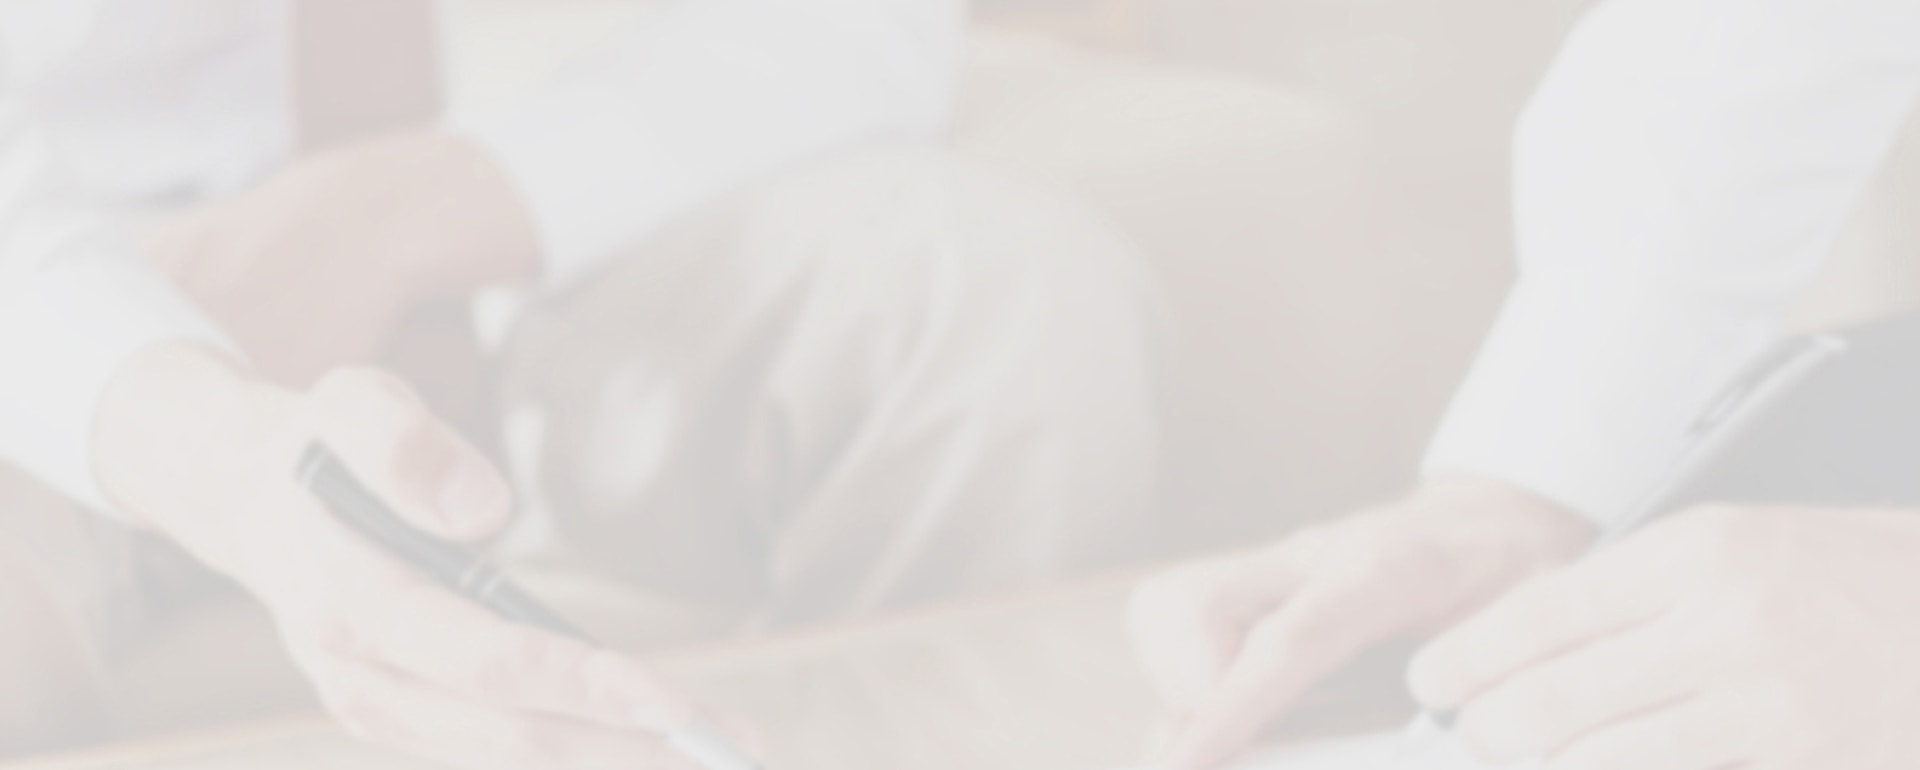
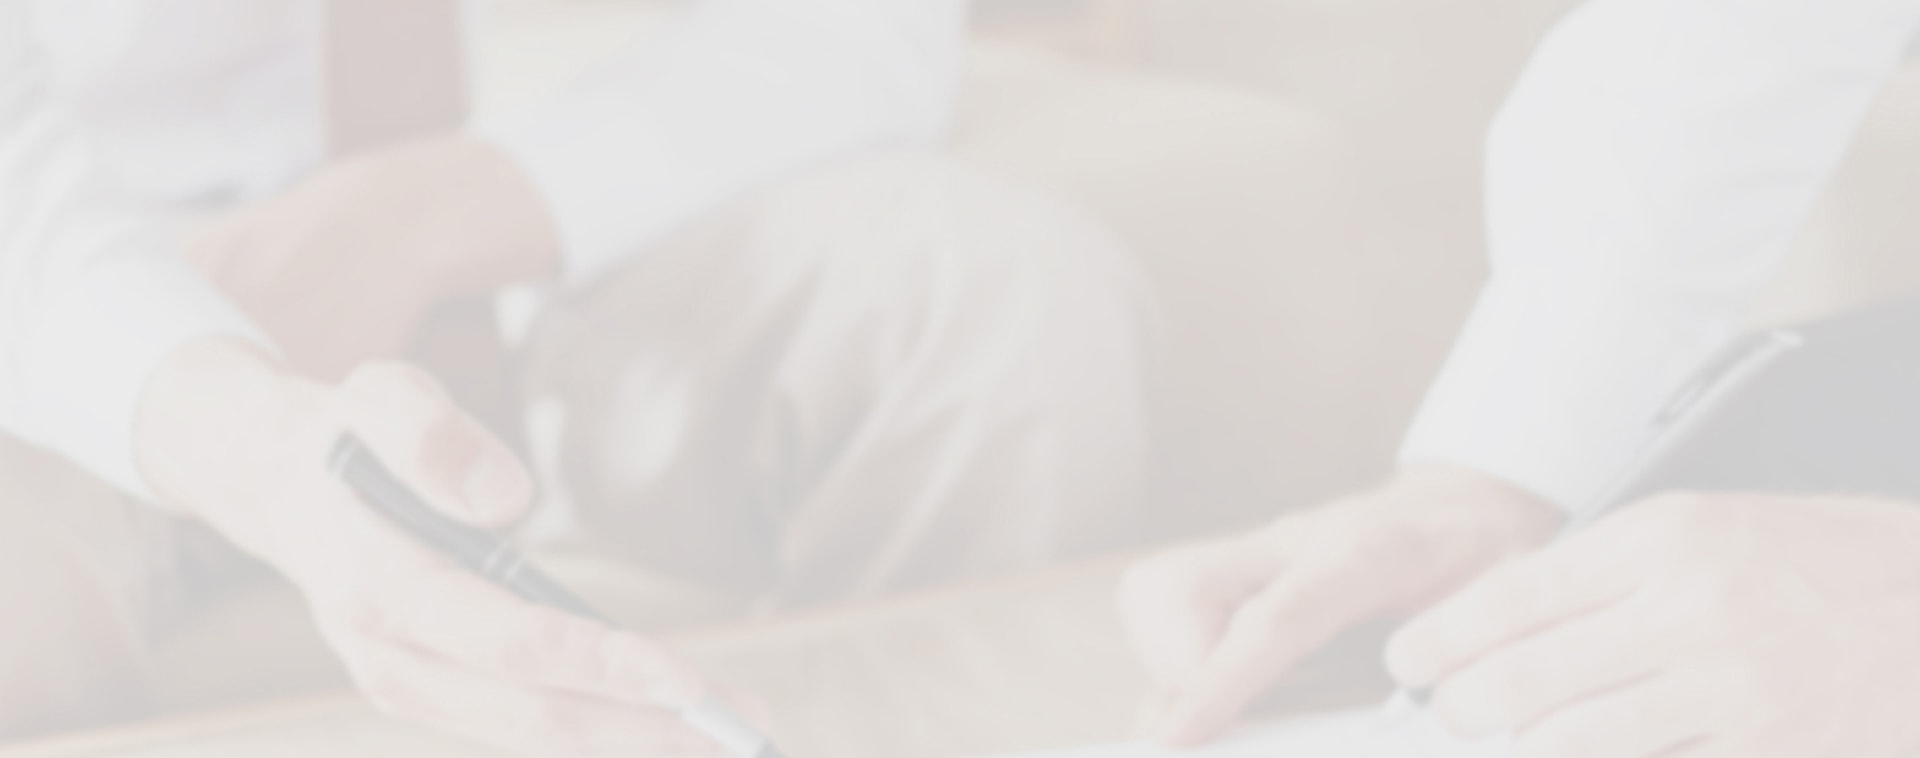
feat(safe.html) 资金安全和运营规范效果改进

diff --git a/app/views/safe.html b/app/views/safe.html
@@ -86,7 +86,7 @@
       <div id="unit1" class="info info1">
         <div class="tab pre position-ab"></div>
         <div class="tab nxt position-ab"></div>
-        <div class="display-inbl icon"><img src="/images/safe/slide-img1.png" class="display-bl" width="90%" height="90%"></div>
+        <div class="display-inbl icon"><img src="/images/safe/slide-img1.png" class="display-bl"></div>
         <div class="display-inbl ft-28 descrip"><div>宏财网率先对接北京网贷风险监控与资金存管系统。投资信息、标的信息等重要数据报送北京金融局、北京网贷协会进行信息备案;</div></div>
       </div>
       <div id="unit2" class="info info2" style="display: none;">
@@ -95,8 +95,8 @@
         <div class="display-inbl icon position-re">
           <ul class="margin-r-63 position-ab firstUl">
             <li style="transform: rotateX(0deg) translateZ(190px);"><img src="/images/safe/num1.png" class="display-bl"></li>
-            <li style="transform: rotateX(25deg) translateZ(190px);"><img src="/images/safe/num2.png" class="display-bl"></li>
-            <li style="transform: rotateX(50deg) translateZ(190px);"><img src="/images/safe/num3.png" class="display-bl"></li>
+            <li style="transform: rotateX(28deg) translateZ(190px);"><img src="/images/safe/num2.png" class="display-bl"></li>
+            <li style="transform: rotateX(53deg) translateZ(190px);"><img src="/images/safe/num3.png" class="display-bl"></li>
             <li style="transform: rotateX(75deg) translateZ(190px);"><img src="/images/safe/num4.png" class="display-bl"></li>
             <li style="transform: rotateX(100deg) translateZ(190px);"><img src="/images/safe/num0.png" class="display-bl"></li>
             <li style="transform: rotateX(125deg) translateZ(190px);"><img src="/images/safe/num1.png" class="display-bl"></li>
@@ -113,8 +113,8 @@
           </ul>
           <ul class="position-ab thirdUl">
             <li style="transform: rotateX(0deg) translateZ(190px);"><img src="/images/safe/num0.png" class="display-bl"></li>
-            <li style="transform: rotateX(25deg) translateZ(190px);"><img src="/images/safe/num4.png" class="display-bl"></li>
-            <li style="transform: rotateX(50deg) translateZ(190px);"><img src="/images/safe/num3.png" class="display-bl"></li>
+            <li style="transform: rotateX(28deg) translateZ(190px);"><img src="/images/safe/num4.png" class="display-bl"></li>
+            <li style="transform: rotateX(53deg) translateZ(190px);"><img src="/images/safe/num3.png" class="display-bl"></li>
             <li style="transform: rotateX(75deg) translateZ(190px);"><img src="/images/safe/num2.png" class="display-bl"></li>
             <li style="transform: rotateX(100deg) translateZ(190px);"><img src="/images/safe/num1.png" class="display-bl"></li>
             <li style="transform: rotateX(125deg) translateZ(190px);"><img src="/images/safe/num0.png" class="display-bl"></li>
@@ -128,7 +128,7 @@
         <div class="tab nxt position-ab"></div>
         <div class="display-inbl icon position-re"><img src="/images/safe/slide-img3.png" class="display-bl"><img src="/images/safe/highlight-line.png" class="position-ab line"></div>
         <div class="display-inbl ft-28 descrip" >
-          <div style="width: 100%;height: 100%;">投资人在充值和提现前必须进行实名认证、手机绑定等多重安全认证，任何帐户资金的提现，只能转出到本人实名绑定的银行账户，完全保障投资人的资金转出安全。</div>
+          <div>投资人在充值和提现前必须进行实名认证、手机绑定等多重安全认证，任何帐户资金的提现，只能转出到本人实名绑定的银行账户，完全保障投资人的资金转出安全。</div>
         </div>
       </div>
     </div>
@@ -265,7 +265,7 @@
           </div>
         </li>
         <li class="position-re">
-          <div class="front position-ab"><img src="/images/safe/running-icon2.png" class="display-bl"><p class="ft-white">信息披露</p></div>
+          <div class="front position-ab"><img src="/images/safe/running-icon2.png" class="display-bl"><p class="ft-white padding-t-10">信息披露</p></div>
           <div class="back">
             <p>信息披露</p>
             <hr>
@@ -281,7 +281,7 @@
           </div>
         </li>
         <li class="position-re margin-r-0">
-          <div class="front position-ab"><img src="/images/safe/running-icon3.png" class="display-bl"><p class="ft-white">专业服务</p></div>
+          <div class="front position-ab"><img src="/images/safe/running-icon3.png" class="display-bl"><p class="ft-white padding-t-15">专业服务</p></div>
           <div class="back">
             <p>专业服务</p>
             <hr>

diff --git a/app/styles/safe.less b/app/styles/safe.less
@@ -414,7 +414,7 @@
     animation-timing-function: ease;
     animation-fill-mode: backwards
   }
-  //密码锁旋转动画向下转
+  //资金安全密码锁旋转动画向下转
   @-o-keyframes num_rotate_bottom {
     from {
       transform: rotateX(313deg)
@@ -485,6 +485,54 @@
     }
     to {
       transform: rotateX(313deg)
+    }
+  }
+  //资金安全放大 缩小动画
+  @-o-keyframes toggle_scale {
+    0% {
+      transform: scale(.8)
+    }
+    50% {
+      transform: scale(1.2)
+    }
+    100%{
+      transform: scale(1)
+    }
+  }
+
+  @-moz-keyframes toggle_scale {
+    0% {
+      transform: scale(.8)
+    }
+    50% {
+      transform: scale(1.2)
+    }
+    100%{
+      transform: scale(1)
+    }
+  }
+
+  @-webkit-keyframes toggle_scale {
+    0% {
+      transform: scale(.8)
+    }
+    50% {
+      transform: scale(1.2)
+    }
+    100%{
+      transform: scale(1)
+    }
+  }
+
+  @keyframes toggle_scale {
+    0% {
+      transform: scale(.8)
+    }
+    50% {
+      transform: scale(1.2)
+    }
+    100%{
+      transform: scale(1)
     }
   }
   .banner>ul {
@@ -684,14 +732,20 @@
         background: url("/images/safe/fund-slide-nxt.png") no-repeat;
         right: 0;
       }
-      #unit2 .icon ul {
+      #unit1 .icon img {
+        transform: scale(.8);
+      }
+      #unit2 .icon ul {transform: translateZ(-190px) rotateX(246deg);transform-style: preserve-3d;
         transform: translateZ(-190px) rotateX(313deg);transform-style: preserve-3d;
       }
+      #unit2 .icon .secondUl {
+        transform: translateZ(-190px) rotateX(246deg);
+      }
       #unit2 .icon .ratateNum1 {
-        -o-animation: num_rotate_bottom 1s ease 1s 1 normal;
-        -moz-animation: num_rotate_bottom 1s ease 1s 1 normal;
-        -webkit-animation: num_rotate_bottom 1s ease 1s 1 normal;
-        animation: num_rotate_bottom 1s ease 1s 1 normal;
+        -o-animation: num_rotate_bottom 1s ease .8s 1 normal;
+        -moz-animation: num_rotate_bottom 1s ease .8s 1 normal;
+        -webkit-animation: num_rotate_bottom 1s ease .8s 1 normal;
+        animation: num_rotate_bottom 1s ease .8s 1 normal;
         animation-fill-mode: forwards;
         -webkit-animation-fill-mode: forwards;
       }
@@ -704,10 +758,18 @@
         -webkit-animation-fill-mode: forwards;
       }
       #unit2 .icon .ratateNum3 {
-        -o-animation: num_rotate_bottom .8s ease-in-out 1s 1 normal;
-        -moz-animation: num_rotate_bottom .8s ease-in-out 1s 1 normal;
-        -webkit-animation: num_rotate_bottom .8s ease-in-out 1s 1 normal;
-        animation: num_rotate_bottom .8s ease-in-out 1s 1 normal;
+        -o-animation: num_rotate_bottom .8s ease-in-out .8s 1 normal;
+        -moz-animation: num_rotate_bottom .8s ease-in-out .8s 1 normal;
+        -webkit-animation: num_rotate_bottom .8s ease-in-out .8s 1 normal;
+        animation: num_rotate_bottom .8s ease-in-out .8s 1 normal;
+        animation-fill-mode: forwards;
+        -webkit-animation-fill-mode: forwards;
+      }
+      #unit1 .icon .toggle-scale {
+        -o-animation: toggle_scale 2s linear .8s 1 normal;
+        -moz-animation: toggle_scale 2s linear .8s 1 normal;
+        -webkit-animation: toggle_scale 2s linear .8s 1 normal;
+        animation: toggle_scale 2s linear .8s 1 normal;
         animation-fill-mode: forwards;
         -webkit-animation-fill-mode: forwards;
       }

diff --git a/app/scripts/controller/project/safe-ctrl.js b/app/scripts/controller/project/safe-ctrl.js
@@ -102,15 +102,11 @@ angular.module('hongcaiApp')
 	var fundAnimation = function(index) {
 		$('.tab').hide();
 		$(".fund-slide-content .info").css({opacity:0}).hide();
-		$(".info").eq(index).show().animate({opacity:1,  width:"100%"}, 1000,function(){
-			$(".fund-slide-content .info .descrip div").eq(index).animate(({height: "100%",opacity:1}),500);
+		$(".info").eq(index).show().animate({opacity:1}, 1000,function(){
 			$(".info").eq(index).find(".tab").show();
 			if(index == 0 ) {
 				$('.pre').hide();
-				$('.info,.info1 img').css({width:'90%',height:'90%'}).animate({
-				   width: "100%",
-				   height: "100%"
-				  }, 800 );
+				$('.info,.info1 img').addClass("toggle-scale");
 				};
 			if(index == 1 ) {
 					$('.info2 .icon .firstUl').addClass('ratateNum1');
